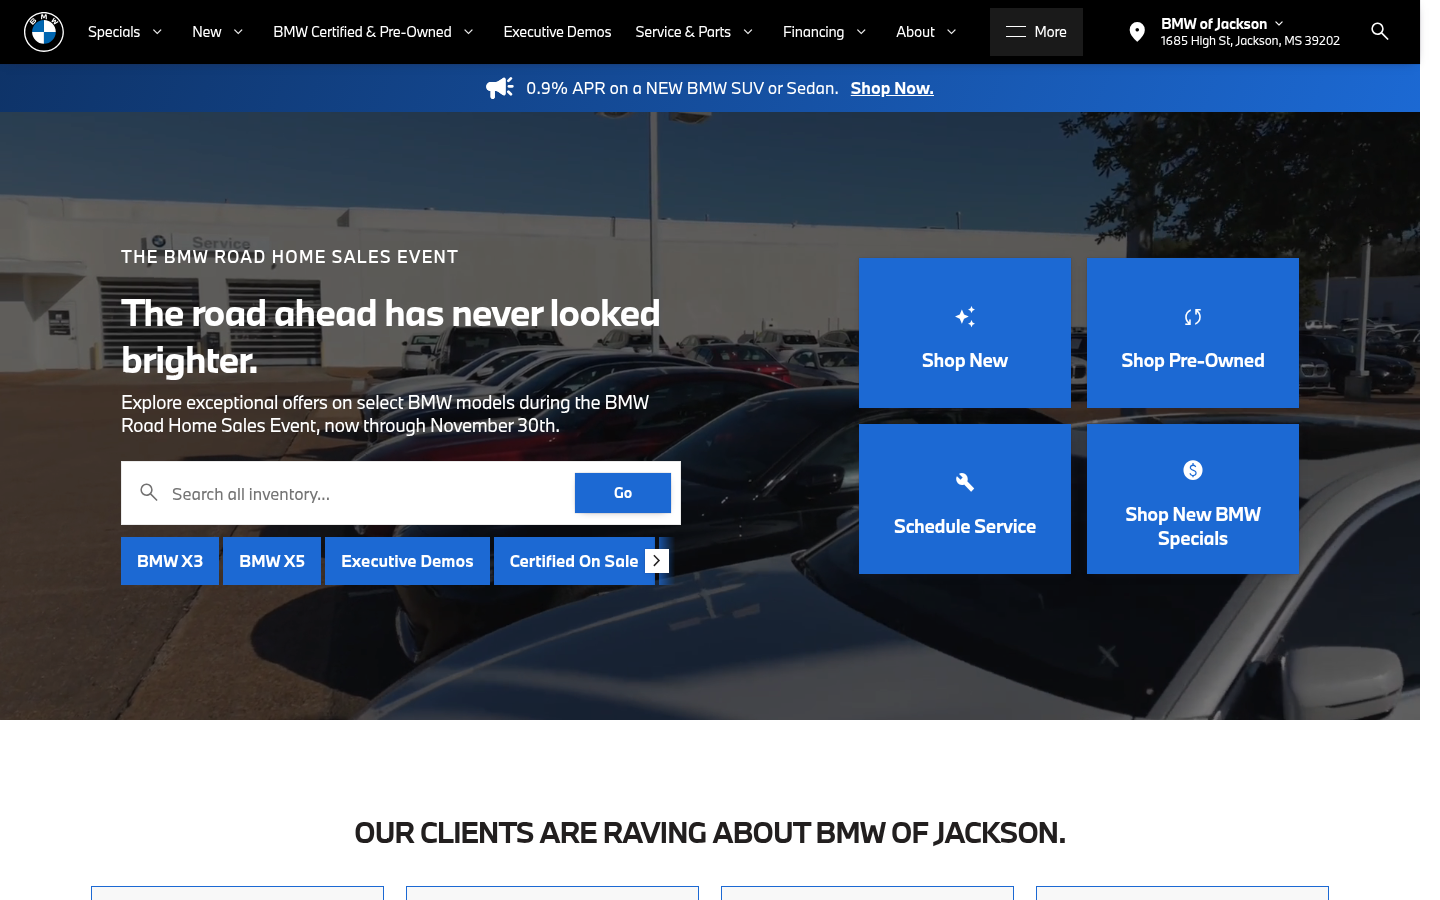
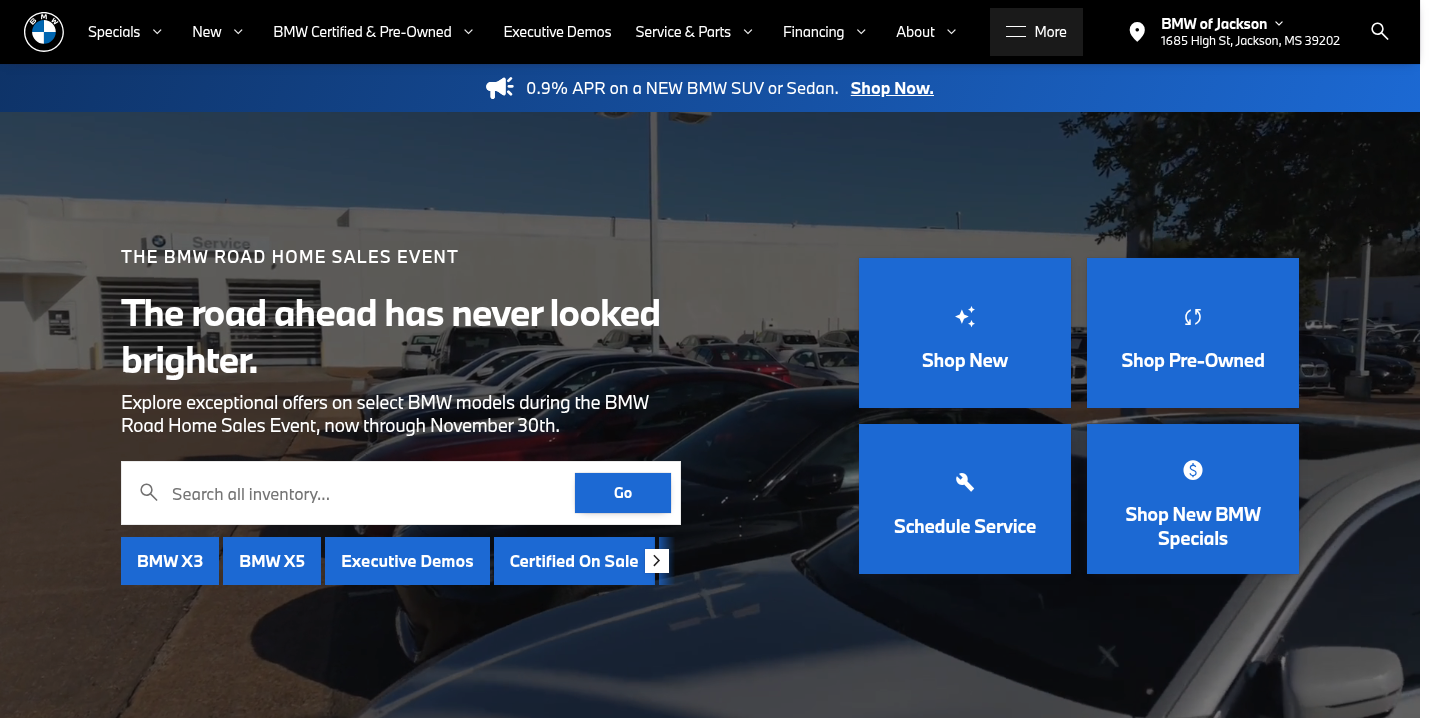
Reorder the page and fix the mismatched photos.
Get found and newsletters now lead, the Q5 pair is recaptioned, and the footer, drone clip, and homepage crop show the whole vehicles.

diff --git a/products-and-services.html b/products-and-services.html
@@ -19,7 +19,7 @@
   <link rel="preconnect" href="https://fonts.gstatic.com" crossorigin />
   <link href="https://fonts.googleapis.com/css2?family=Instrument+Serif:ital@0;1&display=swap" rel="stylesheet" />
   <link rel="stylesheet" href="./css/site.css?v=sms1" />
-  <link rel="stylesheet" href="./css/products.css?v=11" />
+  <link rel="stylesheet" href="./css/products.css?v=12" />
   <script type="application/ld+json">
   {
     "@context": "https://schema.org",
@@ -61,7 +61,56 @@
       </p>
     </div>
   </section>
-
+  <section class="section section--loose" id="svc-search" aria-labelledby="svc-search-title">
+    <div class="inner">
+      <h2 class="display-md" id="svc-search-title">Get found on Google and in AI search</h2>
+      <p class="svc-label">SEO and AI search</p>
+      <p class="body mw-prose">We build the pages shoppers and AI answers look for: buyer's guides, model launches, service and specials, written so ChatGPT and Google's AI answers can read your site and point to your store.</p>
+      <ul class="svc-points">
+        <li><p>SEO for your inventory, service, specials and other key pages</p></li>
+        <li><p>AI search optimization, so ChatGPT and Google's AI answers can read your site and recommend your store</p></li>
+        <li><p>AI readiness: we get your store ready for shoppers who use AI, including an AI shopping assistant we built and tailor with real dealer know-how</p></li>
+      </ul>
+      <figure class="ps-example">
+        <figcaption>Brian Harris BMW · Buyer's guide: lease, finance or buy</figcaption>
+        <a href="https://www.brianharrisbmw.com/bmw-buyers-guide" target="_blank" rel="noopener"><img src="./public/images/tearsheets/get-found_brian-harris-bmw_buyers-guide-thumb.webp" alt="Brian Harris BMW buyer's guide page." width="800" height="500" /></a>
+      </figure>
+    </div>
+  </section>
+  <section class="section section--loose" id="svc-newsletters" aria-labelledby="svc-newsletters-title">
+    <div class="inner">
+      <h2 class="display-md" id="svc-newsletters-title">Newsletters and offers that live on your site</h2>
+      <p class="body mw-prose">Every newsletter and offer email gets its own page on your website, so customers can click through, Google can find it and your sales team has one link to text.</p>
+      <ul class="svc-points">
+        <li><p>Lifestyle newsletters and monthly offer emails</p></li>
+        <li><p>A matching page on your site for every send</p></li>
+      </ul>
+      <figure class="ps-example">
+        <figcaption>Brian Harris BMW · November email → the November specials page on the site</figcaption>
+        <picture>
+          <source media="(max-width: 900px)" srcset="./public/images/content-engine/email-to-page-mobile.webp?v=3" type="image/webp" />
+          <img src="./public/images/content-engine/email-to-page.webp?v=3" alt="The Brian Harris BMW November email on a phone, and the November specials page in a browser at brianharrisbmw.com/new-bmw-specials2." width="1154" height="1438" />
+        </picture>
+      </figure>
+      <div class="ps-examples">
+        <figure class="ps-example">
+          <figcaption>Audi Baton Rouge · Service specials</figcaption>
+          <a href="https://audibatonrouge.com/service-specials" target="_blank" rel="noopener"><img src="./public/images/tearsheets/newsletters-offers_audi-baton-rouge_service-specials-thumb.webp" alt="Audi Baton Rouge service specials page." width="800" height="500" /></a>
+        </figure>
+        <figure class="ps-example">
+          <figcaption>Audi Baton Rouge · Loyalty page</figcaption>
+          <a href="https://audibatonrouge.com/audi-baton-rouge-loyalty-credit" target="_blank" rel="noopener"><img src="./public/images/tearsheets/co-op_audi-baton-rouge_loyalty-credit-thumb.webp" alt="Audi Baton Rouge loyalty page." width="800" height="500" /></a>
+        </figure>
+      </div>
+      <figure class="ps-pullquote">
+        <blockquote>
+          <span class="ps-pullquote__mark" aria-hidden="true">"</span>
+          <span class="ps-pullquote__rule" aria-hidden="true"></span>
+          <p>A good email gets a week of attention. The page keeps selling after that.</p>
+        </blockquote>
+      </figure>
+    </div>
+  </section>
   <section class="section section--loose" id="ps-engine" aria-labelledby="ps-engine-title">
     <div class="inner">
       <h2 class="display-md" id="ps-engine-title">Shot at your store. Used everywhere.</h2>
@@ -70,21 +119,21 @@
         <source media="(max-width: 900px)" srcset="./public/images/content-engine/flow-strip-mobile.webp" />
         <img src="./public/images/content-engine/flow-strip.webp" alt="One shoot feeds every channel: your lot, feature pages, specials, social, and email and newsletters." width="2400" height="600" />
       </picture>
-      <p class="ps-label">Audi Baton Rouge · One photo, and the post it ran in</p>
+      <p class="ps-label">From the shoot to social</p>
       <div class="ps-oneshoot">
         <figure class="ps-example">
-          <figcaption>The original shot</figcaption>
+          <figcaption>On the shoot</figcaption>
           <img src="./public/images/content-engine/q5-original-shot.jpg" alt="A gray Audi Q5, the whole car, photographed in front of a house." width="776" height="652" />
         </figure>
         <figure class="ps-example">
-          <figcaption>Social post</figcaption>
-          <img class="ps-vertical" src="./public/images/content-engine/post-q5-country-club.jpg" alt="The same Audi Q5, published as a vertical social post at a country club." width="3072" height="3840" />
+          <figcaption>On social</figcaption>
+          <img class="ps-vertical" src="./public/images/content-engine/post-q5-country-club.webp?v=4" alt="A black Audi Q5, the whole car, in a vertical social post at a country club." width="1000" height="1250" />
         </figure>
       </div>
       <figure class="ps-example">
         <figcaption>BMW of Jackson · Homepage hero video (Motive)</figcaption>
         <a href="https://bmwofjackson.net/" target="_blank" rel="noopener">
-          <img src="./public/images/content-engine/bmwj-homepage.png" alt="BMW of Jackson homepage, with a lot video in the hero." width="1440" height="900" />
+          <img src="./public/images/content-engine/bmwj-homepage.png?v=4" alt="BMW of Jackson homepage, with a lot video in the hero." width="1440" height="718" />
         </a>
       </figure>
       <figure class="ps-pullquote ps-pullquote--center">
@@ -96,7 +145,6 @@
       </figure>
     </div>
   </section>
-
   <section class="section section--brand" id="svc-content" aria-labelledby="svc-content-title">
     <div class="inner">
       <div class="stack-lg">
@@ -117,77 +165,12 @@
         <div class="ps-posts">
           <figure class="ps-example">
             <figcaption>Harris Porsche · 911 Carrera S in the showroom</figcaption>
-            <img class="ps-vertical" src="./public/images/content-engine/post-911-showroom.jpg" alt="A blue Porsche 911 Carrera S, the whole car, on the showroom floor." width="2160" height="2700" />
-          </figure>
-          <figure class="ps-example">
-            <figcaption>Audi Baton Rouge · All-new Q5 at the country club</figcaption>
-            <img class="ps-vertical" src="./public/images/content-engine/post-q5-country-club.jpg" alt="A black Audi Q5, the whole car, parked in front of a country club." width="3072" height="3840" />
+            <img class="ps-vertical" src="./public/images/content-engine/post-911-showroom.webp?v=4" alt="A blue Porsche 911 Carrera S, the whole car, on the showroom floor." width="1000" height="1250" />
           </figure>
         </div>
       </div>
     </div>
   </section>
-
-  <section class="section section--loose" id="svc-newsletters" aria-labelledby="svc-newsletters-title">
-    <div class="inner">
-      <h2 class="display-md" id="svc-newsletters-title">Newsletters and offers that live on your site</h2>
-      <p class="body mw-prose">Every newsletter and offer email gets its own page on your website, so customers can click through, Google can find it and your sales team has one link to text.</p>
-      <ul class="svc-points">
-        <li><p>Lifestyle newsletters and monthly offer emails</p></li>
-        <li><p>A matching page on your site for every send</p></li>
-      </ul>
-      <figure class="ps-example">
-        <figcaption>Brian Harris BMW · November email → the November specials page on the site</figcaption>
-        <picture>
-          <source media="(max-width: 900px)" srcset="./public/images/content-engine/email-to-page-mobile.webp?v=3" type="image/webp" />
-          <img src="./public/images/content-engine/email-to-page.webp?v=3" alt="The Brian Harris BMW November email on a phone, and the November specials page in a browser at brianharrisbmw.com/new-bmw-specials2." width="1154" height="1438" />
-        </picture>
-      </figure>
-      <div class="ps-examples">
-        <figure class="ps-example">
-          <figcaption>Brian Harris BMW · The Ultimate Driver, issue 02</figcaption>
-          <a href="https://brianharrisbmw.com/ultimate-driver-issue-02" target="_blank" rel="noopener"><img src="./public/images/tearsheets/newsletters-offers_brian-harris-bmw_ultimate-driver-02-thumb.webp" alt="The Ultimate Driver issue 02 on the Brian Harris BMW site." width="800" height="500" /></a>
-        </figure>
-        <figure class="ps-example">
-          <figcaption>Audi Baton Rouge · Service specials</figcaption>
-          <a href="https://audibatonrouge.com/service-specials" target="_blank" rel="noopener"><img src="./public/images/tearsheets/newsletters-offers_audi-baton-rouge_service-specials-thumb.webp" alt="Audi Baton Rouge service specials page." width="800" height="500" /></a>
-        </figure>
-        <figure class="ps-example">
-          <figcaption>Harris Porsche · New Porsche specials (any platform)</figcaption>
-          <a href="https://harris.porsche.com/en/specials/new" target="_blank" rel="noopener"><img src="./public/images/tearsheets/newsletters-offers_harris-porsche_specials-new-thumb.webp" alt="Harris Porsche new-vehicle specials page." width="800" height="500" /></a>
-        </figure>
-        <figure class="ps-example">
-          <figcaption>Audi Baton Rouge · Loyalty page</figcaption>
-          <a href="https://audibatonrouge.com/audi-baton-rouge-loyalty-credit" target="_blank" rel="noopener"><img src="./public/images/tearsheets/co-op_audi-baton-rouge_loyalty-credit-thumb.webp" alt="Audi Baton Rouge loyalty page." width="800" height="500" /></a>
-        </figure>
-      </div>
-      <figure class="ps-pullquote">
-        <blockquote>
-          <span class="ps-pullquote__mark" aria-hidden="true">"</span>
-          <span class="ps-pullquote__rule" aria-hidden="true"></span>
-          <p>A good email gets a week of attention. Ours don't vanish.</p>
-        </blockquote>
-      </figure>
-    </div>
-  </section>
-
-  <section class="section section--loose" id="svc-search" aria-labelledby="svc-search-title">
-    <div class="inner">
-      <h2 class="display-md" id="svc-search-title">Get found on Google and in AI search</h2>
-      <p class="svc-label">SEO and AI search</p>
-      <p class="body mw-prose">We build the pages shoppers and AI answers look for: buyer's guides, model launches, service and specials, written so ChatGPT and Google's AI answers can read your site and point to your store.</p>
-      <ul class="svc-points">
-        <li><p>SEO for your inventory, service, specials and other key pages</p></li>
-        <li><p>AI search optimization, so ChatGPT and Google's AI answers can read your site and recommend your store</p></li>
-        <li><p>AI readiness: we get your store ready for shoppers who use AI, including an AI shopping assistant we built and tailor with real dealer know-how</p></li>
-      </ul>
-      <figure class="ps-example">
-        <figcaption>Brian Harris BMW · Buyer's guide: lease, finance or buy</figcaption>
-        <a href="https://www.brianharrisbmw.com/bmw-buyers-guide" target="_blank" rel="noopener"><img src="./public/images/tearsheets/get-found_brian-harris-bmw_buyers-guide-thumb.webp" alt="Brian Harris BMW buyer's guide page." width="800" height="500" /></a>
-      </figure>
-    </div>
-  </section>
-
   <section class="section section--loose" id="svc-spend" aria-labelledby="svc-spend-title">
     <div class="inner">
       <h2 class="display-sm" id="svc-spend-title">Your co-op dollars can cover most of this.</h2>
@@ -195,7 +178,6 @@
       <p class="ps-inline-cta"><a class="link-cta-sm" href="/contact" data-coop-chat aria-haspopup="dialog">Ask how co-op works for your store</a></p>
     </div>
   </section>
-
   <section class="section section--loose" id="svc-operations" aria-labelledby="svc-operations-title">
     <div class="inner">
       <h2 class="display-md" id="svc-operations-title">Your outsourced tech and marketing lead</h2>
@@ -224,7 +206,7 @@
         <article class="svc-card">
           <p class="num">04</p>
           <h3 class="display-sm">Custom AI systems and apps</h3>
-          <p class="body">Custom AI systems and apps, tuned with real dealer know-how.</p>
+          <p class="body">We shape the tools around how your store sells and services cars, so the answers sound like your desk.</p>
           <figure class="ps-example">
             <figcaption>Audi Baton Rouge · AI shopping assistant</figcaption>
             <img src="./public/images/tearsheets/tech-lead_audi-baton-rouge_ai-assistant-thumb.webp" alt="An AI shopping assistant built for Audi Baton Rouge." width="800" height="500" />
@@ -240,7 +222,6 @@
       </figure>
     </div>
   </section>
-
   <section class="section section--loose" id="ps-why">
     <div class="inner">
       <h2 class="display-md">Why The Cooperative</h2>
@@ -256,7 +237,6 @@
       </figure>
     </div>
   </section>
-
   <section class="panel" id="ps-close">
     <div class="inner">
       <div class="stack-lg ta-center">
@@ -310,14 +290,12 @@
       </div>
     </div>
   </section>
-
   <section class="section section--tight" id="ps-beyond">
     <div class="inner">
       <h2 class="display-sm">Not a dealership?</h2>
       <p class="body mw-prose">We also consult for startups and build sites and run social for restaurants. <a class="link-cta-sm" href="https://ownyourweb.ai">Visit Own Your Web</a></p>
     </div>
   </section>
-
   <section class="section" id="ps-seo">
     <div class="inner">
       <div class="seo-copy">
@@ -329,7 +307,6 @@
       </div>
     </div>
   </section>
-
   <section class="footer-band" aria-label="Contact footer">
     <div class="footer-band__media">
       <img src="./public/images/X7-in-Willow-Grove-7.jpg" alt="BMW X7 on a tree-lined street" width="2500" height="1667" loading="lazy" />
@@ -381,7 +358,7 @@
   </div>
 
   <script src="./js/contact-form.js?v=sms2"></script>
-  <script src="./js/products-page.js?v=7" defer></script>
+  <script src="./js/products-page.js?v=8" defer></script>
   <script src="./js/chat-widget.js?v=8316a52" defer></script>
 </body>
 </html>

diff --git a/css/products.css b/css/products.css
@@ -571,12 +571,16 @@ a.ts-card { text-decoration: none; }
 }
 
 .ps-phones {
-  display: grid;
-  grid-template-columns: repeat(3, minmax(0, 1fr));
+  display: flex;
+  flex-wrap: nowrap;
   gap: 0.85rem;
-  width: min(46rem, 100%);
-  margin: var(--space-3) auto 0;
+  width: min(28rem, 100%);
+  margin: var(--space-3) 0 0;
+  overflow-x: auto;
+  scroll-snap-type: x mandatory;
+  overscroll-behavior-x: contain;
 }
+.ps-phone { flex: 0 0 11.5rem; width: 11.5rem; scroll-snap-align: start; }
 .ps-phone { margin: 0; min-width: 0; }
 .ps-phone video, .ps-phone img {
   width: 100%;
@@ -732,14 +736,27 @@ a.ts-card { text-decoration: none; }
   max-width: 100%;
 }
 #svc-content .stack-lg > * { min-width: 0; }
-.ps-drone { width: min(720px, 100%); }
+.ps-drone { width: min(40rem, 100%); margin-inline: auto; }
 .ps-drone video {
   width: 100%;
   max-height: 60vh;
   aspect-ratio: 16 / 9;
   object-fit: contain;
+  object-position: center center;
   background: #111;
   display: block;
+}
+.footer-band__media img {
+  object-fit: contain;
+  object-position: center center;
+  background: #e4efe2;
+}
+.footer-band__inner { align-content: end; }
+@media (max-width: 900px) {
+  .footer-band { min-height: 0; display: flex; flex-direction: column; }
+  .footer-band__media { position: relative; inset: auto; height: auto; }
+  .footer-band__media img { width: 100%; height: auto; max-height: none; }
+  .footer-band__inner { min-height: 0; padding-bottom: var(--space-3); }
 }
 .ps-still img { width: 100%; height: auto; object-fit: contain; background: #e8e8e8; display: block; }
 .svc-grid--4 { grid-template-columns: repeat(2, minmax(0, 1fr)); }
@@ -747,6 +764,14 @@ a.ts-card { text-decoration: none; }
 .ps-inline-cta { margin-top: var(--space-2); }
 @media (max-width: 900px) {
   .ps-oneshoot, .ps-posts, .svc-grid--4 { grid-template-columns: 1fr; }
-  .ps-drone { width: 100%; }
-  .ps-drone video { max-height: none; }
+  .ps-drone { width: min(40rem, 100%); }
+  .ps-drone video { max-height: 60vh; }
+  .site-header { align-items: center; flex-wrap: nowrap; padding-top: 0.35rem; }
+  .logo-wordmark { width: 5.4rem; }
+  .nav { flex-wrap: nowrap; gap: 0.35rem; font-size: 0.68rem; }
+  .nav a, .btn-pill, .ps-bar a, button[type="submit"], .link-cta-sm {
+    min-height: 44px;
+    display: inline-flex;
+    align-items: center;
+  }
 }
